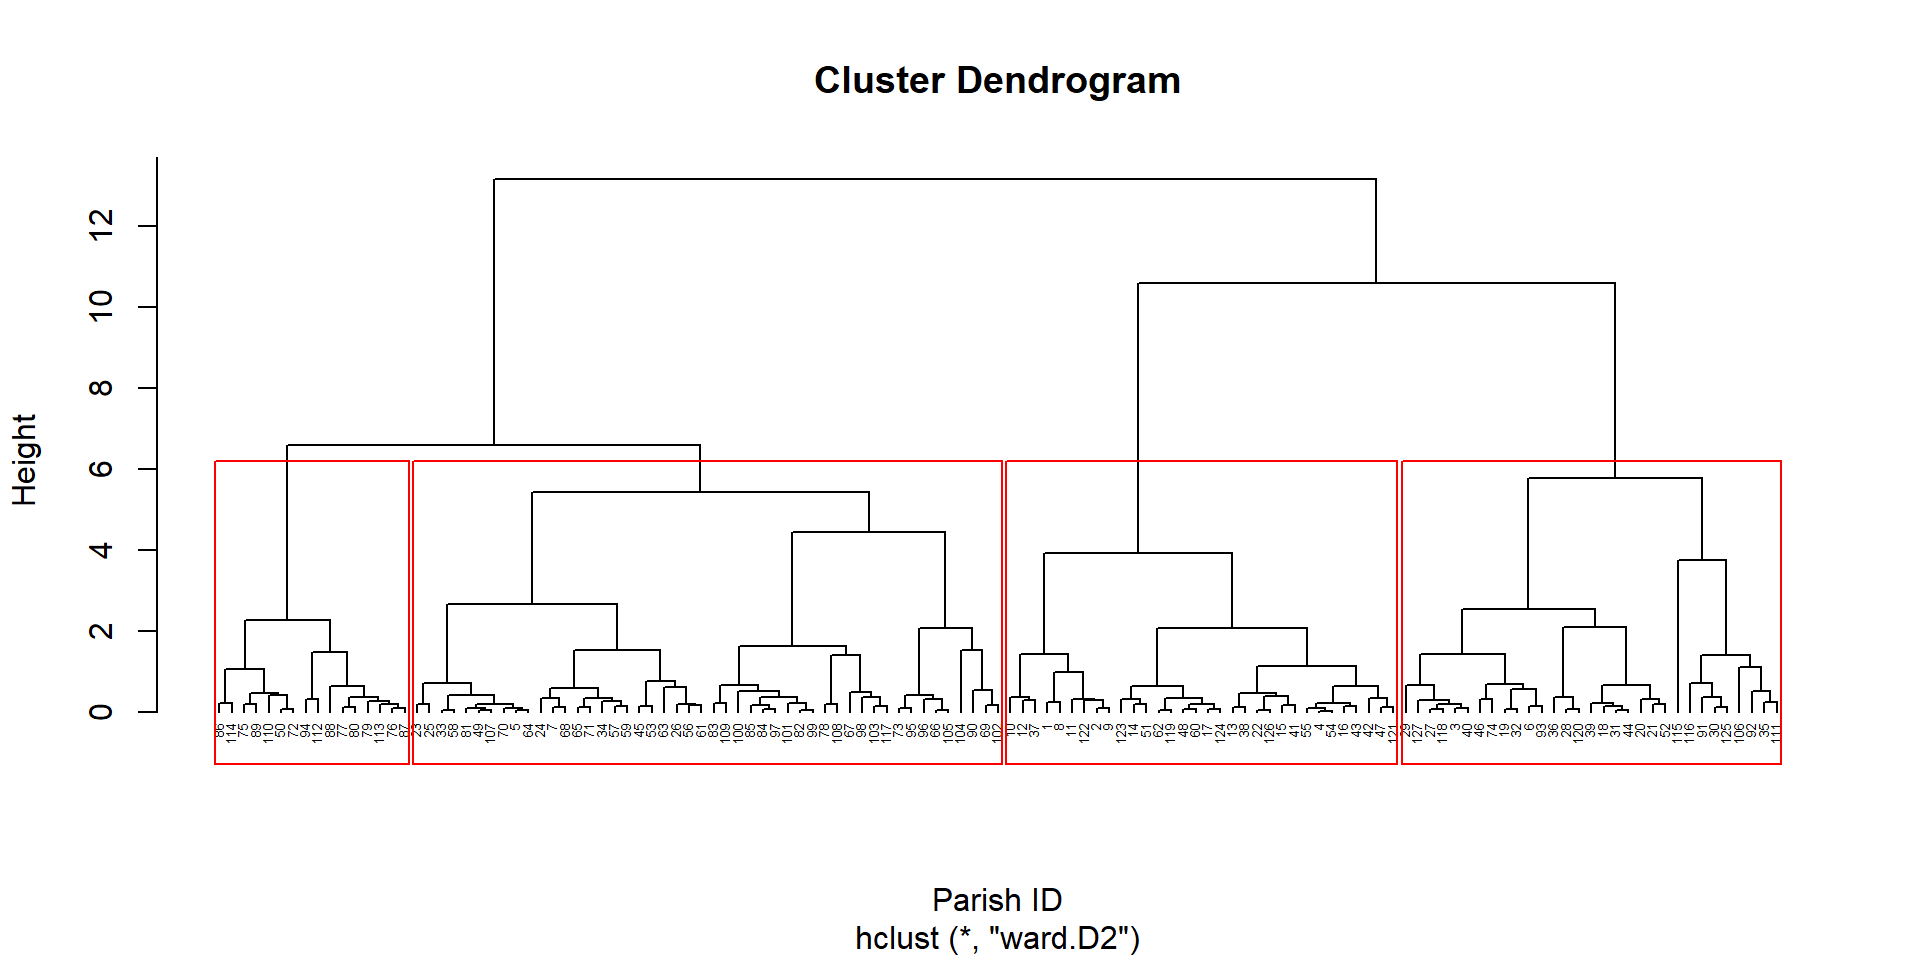
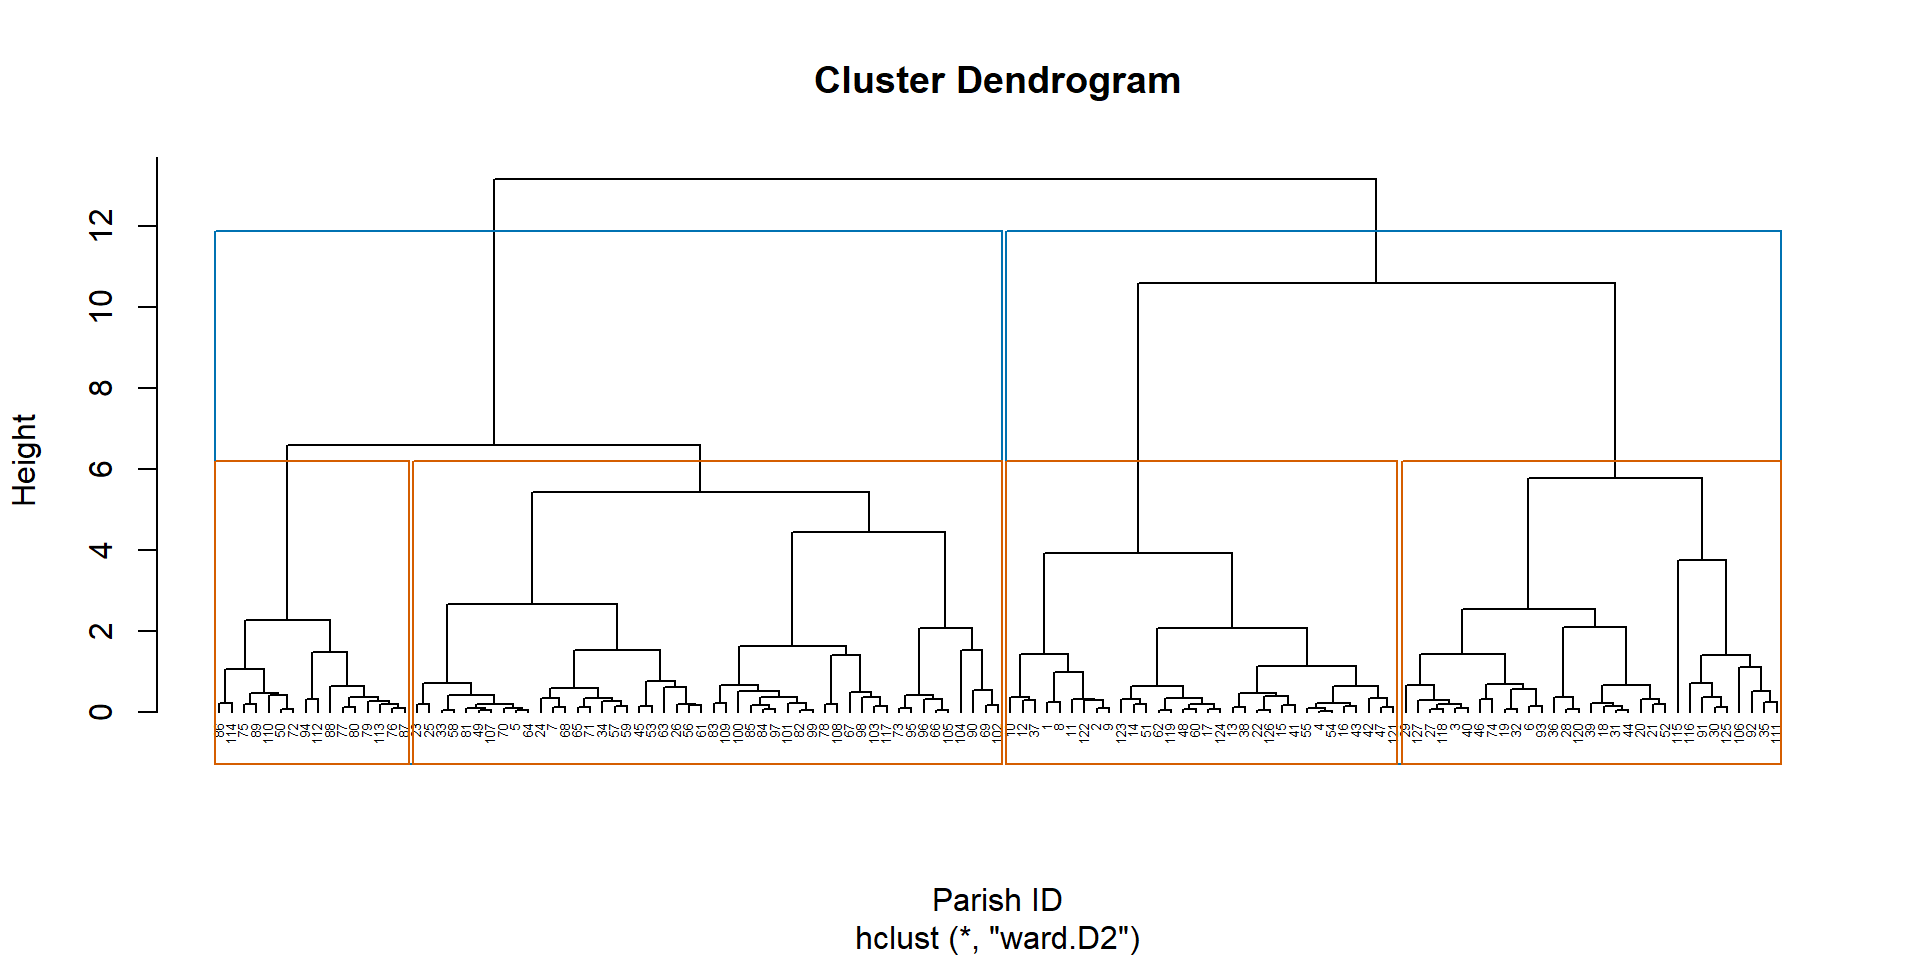
Add lines for 2 clusters in the HCA

Changed region(s): [[0.7188, 0.4688, 0.75, 0.5], [0.5, 0.4688, 0.5312, 0.5], [0.1875, 0.4688, 0.2188, 0.5]]

diff --git a/CoDa_migr_cph.html b/CoDa_migr_cph.html
@@ -1707,9 +1707,10 @@ cptl_prsh_ancestry_sf &lt;- cptl_prsh_ancestry_sf %&gt;%
   mutate(across(.cols = c(CL2, CL3, CL4), .fns = factor))</code></pre>
 <pre class="r"><code># Plot
 plot(hcl, hang = -1, cex = 0.4, xlab = &quot;Parish ID&quot;)
-rect.hclust(hcl, k = 4, border = &quot;red&quot;)</code></pre>
+rect.hclust(hcl, k = 2, border = &quot;#0072B2&quot;)
+rect.hclust(hcl, k = 4, border = &quot;#D55E00&quot;)</code></pre>
 <div class="figure" style="text-align: center">
[2 lines of base64/hex data omitted]
 <p class="caption">
 Cluster dendrogram
 </p>
@@ -2655,10 +2656,7 @@ sum_runits_oft_prices %&gt;%
   
 </table>
 </div>
-</div>
-<div id="linear-model" class="section level3">
-<h3>Linear model</h3>
-<p>Ternary diagram with house prices (zoom the figure to the parishes with median values).</p>
+<p>Ternary diagram with house prices and clusters (zoom the figure to the parishes with median values).</p>
 <pre class="r"><code>ggtern::ggtern(data = sum_runits_oft_prices,
                aes(x = pop_dan,
                    y = pop_frgn_wst,
@@ -2693,7 +2691,9 @@ sum_runits_oft_prices %&gt;%
 Ternary diagram of population distribution vs. housing prices
 </p>
 </div>
-<p>Linear model</p>
+</div>
+<div id="linear-model" class="section level3">
+<h3>Linear model</h3>
 <pre class="r"><code>m1 &lt;- lm(log10(median_kDKK_m2) ~ b1 + b2, data = sum_runits_oft_prices)</code></pre>
 <p>Regression coefficients:</p>
 <pre class="r"><code>summary(m1) %&gt;% 
